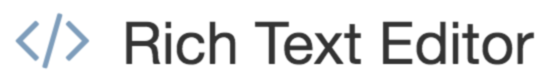
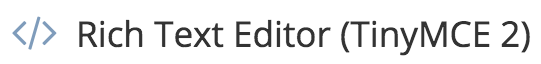
Update and remove unused controls

Changed region(s): [[0.0, 0.1562, 1.0, 0.875]]

diff --git a/source/developers/form-controls/list-form-controls.rst b/source/developers/form-controls/list-form-controls.rst
@@ -1,79 +1,72 @@
 .. _list-form-engine-controls:
 
 .. |ctlFormSection| image:: /_static/images/form-controls/ctl-form-section.png
-             :width: 90%
+             :width: 60%
              :alt: Form Controls - Form Section
 
 .. |ctlRepeatGrp| image:: /_static/images/form-controls/ctl-repeat-grp.png
+             :width: 70%
              :alt: Form Controls - Repeating Group
 
 .. |ctlInput| image:: /_static/images/form-controls/ctl-input.png
-             :width: 55%
+             :width: 35%
              :alt: Form Controls - Input
 
 .. |ctlTxtArea| image:: /_static/images/form-controls/ctl-text-area.png
-             :width: 70%
+             :width: 50%
              :alt: Form Controls - Text Area
 
 .. |ctlRTE| image:: /_static/images/form-controls/ctl-rte.png
              :width: 105%
-             :alt: Form Controls - Rich Text Editor
+             :alt: Form Controls - Rich Text Editor (TinyMCE 2)
+
+.. |ctlRTE2| image:: /_static/images/form-controls/ctl-rte2.png
+             :width: 105%
+             :alt: Form Controls - Rich Text Editor (TinyMCE 4)
 
 .. |ctlDropdown| image:: /_static/images/form-controls/ctl-dropdown.png
-             :width: 75%
+             :width: 55%
              :alt: Form Controls - Dropdown
 
 .. |ctlDtTime| image:: /_static/images/form-controls/ctl-date-time.png
-             :width: 80%
+             :width: 60%
              :alt: Form Controls - Date Time
 
 .. |ctlCheckBox| image:: /_static/images/form-controls/ctl-check-box.png
-             :width: 75%
+             :width: 55%
              :alt: Form Controls - Check Box
 
 .. |ctlGrpChkBox| image:: /_static/images/form-controls/ctl-grp-check-box.png
-             :width: 100%
+             :width: 90%
              :alt: Form Controls - Grouped Check Box
 
 .. |ctlItemSel| image:: /_static/images/form-controls/ctl-item-sel.png
-             :width: 95%
+             :width: 65%
              :alt: Form Controls - Item Selector
 
 .. |ctlImage| image:: /_static/images/form-controls/ctl-image.png
-             :width: 60%
+             :width: 40%
              :alt: Form Controls - Image
 
 .. |ctlVideo| image:: /_static/images/form-controls/ctl-video.png
-             :width: 50%
+             :width: 35%
              :alt: Form Controls - Video
 
 .. |ctlLabel| image:: /_static/images/form-controls/ctl-label.png
-             :width: 55%
+             :width: 35%
              :alt: Form Controls - Label
 
 .. |ctlPageOrder| image:: /_static/images/form-controls/ctl-page-order.png
-             :width: 80%
+             :width: 50%
              :alt: Form Controls - Page Order
 
 .. |ctlFileName| image:: /_static/images/form-controls/ctl-file-name.png
-             :width: 80%
+             :width: 50%
              :alt: Form Controls - File Name
 
 .. |ctlAutoFn| image:: /_static/images/form-controls/ctl-auto-filename.png
-             :width: 95%
+             :width: 65%
              :alt: Form Controls - Auto Filename
-
-.. |ctlAwsFileUp| image:: /_static/images/form-controls/ctl-aws-file-upload.png
-             :width: 95%
-             :alt: Form Controls - AWS File Upload
-
-.. |ctlAwsVideoUp| image:: /_static/images/form-controls/ctl-aws-video-upload.png
-             :width: 97%
-             :alt: Form Controls - AWS Video Upload
-
-.. |ctlBoxFileUp| image:: /_static/images/form-controls/ctl-box-file-upload.png
-             :width: 95%
-             :alt: Form Controls - Box File Upload
 
 
 +------------------------+-----------------------------------------------------------------------+
@@ -101,6 +94,10 @@
 || |ctlRTE|              ||  A block of HTML.                                                    |
 ||                       ||                                                                      |
 ||                       ||  Details are in the :ref:`form-rte` page.                            |
++------------------------+-----------------------------------------------------------------------+
+|| |ctlRTE2|             ||  A block of HTML.                                                    |
+||                       ||                                                                      |
+||                       ||  Details are in the :ref:`form-rte2` page.                           |
 +------------------------+-----------------------------------------------------------------------+
 || |ctlDropdown|         ||  Dropdown list of items to pick from.                                |
 ||                       ||                                                                      |
@@ -145,16 +142,4 @@
 || |ctlAutoFn|           ||                                                                      |
 ||                       ||                                                                      |
 ||                       || Details are in the :ref:`form-auto-filename` page.                   |
-+------------------------+-----------------------------------------------------------------------+
-|| |ctlAwsFileUp|        ||                                                                      |
-||                       ||                                                                      |
-||                       || Details are in the :ref:`form-aws-file-upload` page.                 |
-+------------------------+-----------------------------------------------------------------------+
-|| |ctlAwsVideoUp|       ||                                                                      |
-||                       ||                                                                      |
-||                       || Details are in the :ref:`form-aws-video-upload` page.                |
-+------------------------+-----------------------------------------------------------------------+
-|| |ctlBoxFileUp|        ||                                                                      |
-||                       ||                                                                      |
-||                       || Details are in the :ref:`form-box-file-upload` page.                 |
 +------------------------+-----------------------------------------------------------------------+

diff --git a/source/developers/form-controls/form-rte2.rst b/source/developers/form-controls/form-rte2.rst
@@ -3,19 +3,19 @@
 .. document does not appear in any toctree, this file is referenced
    use :orphan: File-wide metadata option to get rid of WARNING: document isn't included in any toctree for now
 
-.. index:: Form Controls; Rich Text Editor (TinyMCE 2)
+.. index:: Form Controls; Rich Text Editor (TinyMCE 4)
 
-.. _form-rte:
+.. _form-rte2:
 
 ====================================
-Rich Text Editor (TinyMCE 2) Control
+Rich Text Editor (TinyMCE 4) Control
 ====================================
 
 -------
 Example
 -------
 
-.. image:: /_static/images/form-controls/form-control-rte-example.png
+.. image:: /_static/images/form-controls/form-control-rte2-example.png
     :width: 50%
     :alt: RTE
     :align: center
@@ -24,7 +24,7 @@ Example
 Configuration
 -------------
 
-.. image:: /_static/images/form-controls/form-control-rte-properties.png
+.. image:: /_static/images/form-controls/form-control-rte2-properties.png
     :width: 50%
     :alt: RTE
     :align: center
@@ -34,21 +34,17 @@ Configuration
 +------------------------+-----------------------------------------------------------------------+
 || Description/Purpose   || Rich Text Area field.                                                |
 +------------------------+-----------------------------------------------------------------------+
-|| Properties            || * Width: Width of the Rich Text Area.                                |
-||                       || * Height: Height of the Rich Text Area.                              |
-||                       || * Max Length: Maximum number of characters to accept as input.       |
-||                       || * Allow Resize: Allows to resize the field.                          |
+|| Properties            || * Height: Height of the Rich Text Area.                              |
 ||                       || * Force Root Block p Tag.                                            |
 ||                       || * Force p tags New Lines: Adds a p tag on every new line.            |
 ||                       || * Force br New Lines: Adds br for each new line.                     |
-||                       || * Require Image Alt Tag: When inserting image, requires alternative  |
-||                       ||   tag.                                                               |
 ||                       || * Supported Channels.                                                |
 ||                       || * RTE Configuration: Configuration to be loaded on the rte.          |
 ||                       || * Image Manager.                                                     |
+||                       || * Video Manager.                                                     |
 +------------------------+-----------------------------------------------------------------------+
 || Constraints           || * Required: Make field required to fill out.                         |
 +------------------------+-----------------------------------------------------------------------+
-|| Related Data Sources  || * Image.                                                             |
+|| Related Data Sources  || * Image and Video.                                                   |
 +------------------------+-----------------------------------------------------------------------+
 
